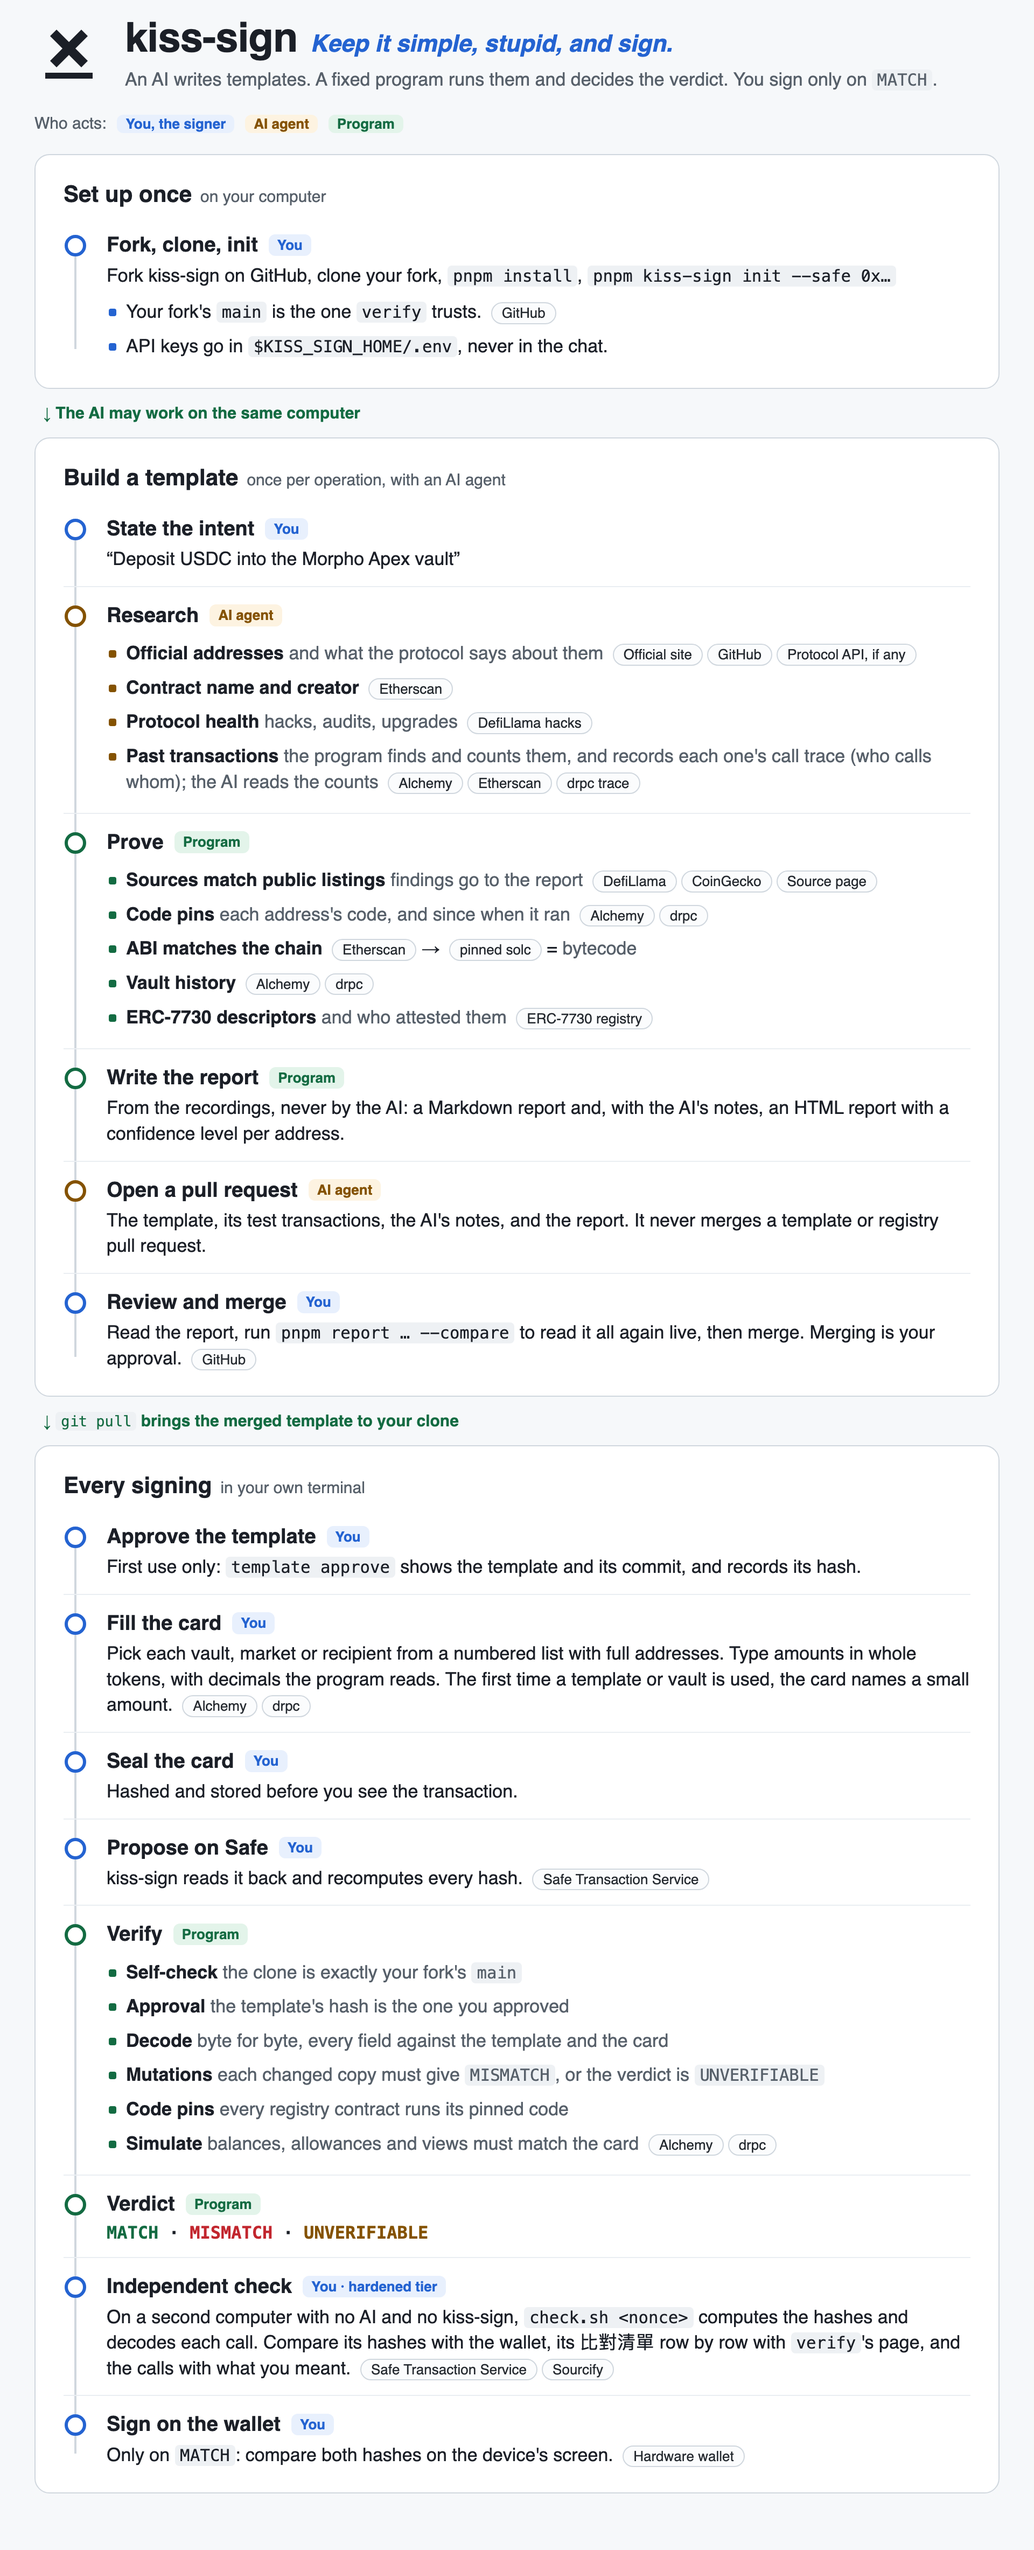
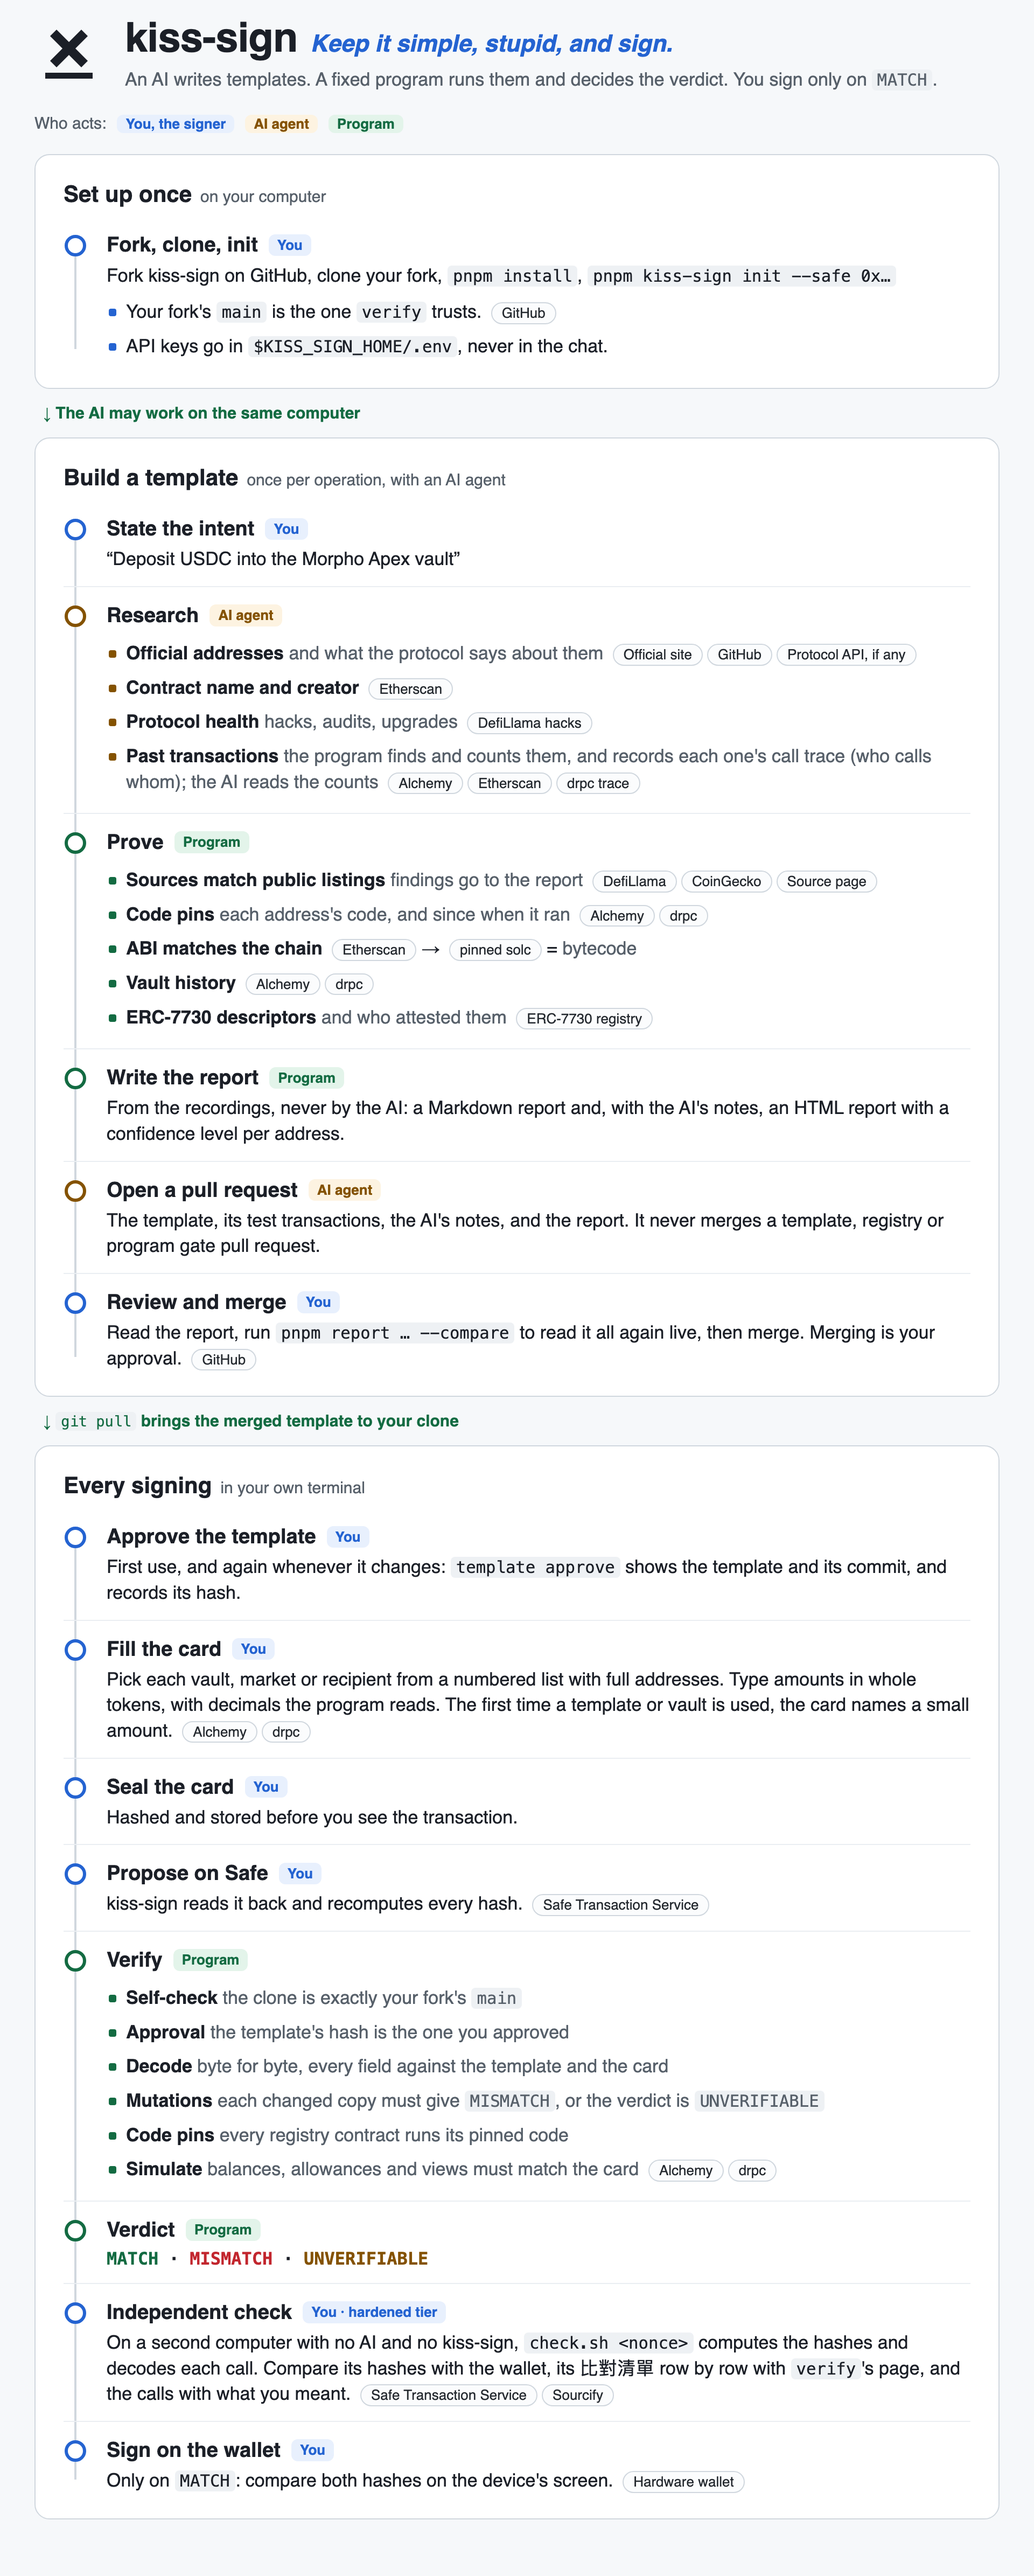
docs(diagrams): address the review of the diagram corrections
Say who never merges in full, approve again when a template changes, scope
the provider and basic-tier sentences, and read the floors with "except".

Claude-Session: https://claude.ai/code/session_019EpkRikTD1KbjKp9L1wtSS

diff --git a/docs/diagrams/detail.html b/docs/diagrams/detail.html
@@ -60,7 +60,7 @@
   <svg viewBox="0 0 256 256" aria-hidden="true"><g fill="#1b1f27"><path d="M57.98 58.02 L173.98 174.02 L198.02 149.98 L82.02 33.98 Z"/><path d="M173.98 33.98 L57.98 149.98 L82.02 174.02 L198.02 58.02 Z"/><rect x="40" y="194" width="176" height="22"/></g></svg>
   <div>
     <h1>kiss-sign<em>Keep it simple, stupid, and sign.</em></h1>
-    <p>Who acts at each step, what it checks, which services it reads, and what it trusts. The AI researches and writes templates; the program checks the research for you to judge, and alone decides the verdict at signing.</p>
+    <p>Who acts at each step, what it checks, which services it reads, and what it trusts. The AI researches and writes templates; the program checks the addresses, code and evidence for you to judge, and alone decides the verdict at signing.</p>
   </div>
 </header>
 <div class="legend">Who acts:
@@ -132,7 +132,7 @@
         <li><code>docs.json</code>: one official page per function</li>
         <li><code>notes.json</code>: the AI's text, labelled as AI research</li>
         <li>The report</li>
-        <li>Never merges a template or registry pull request</li>
+        <li>Never merges a template, registry or program gate pull request</li>
       </ul></div>
     <div class="arrow">→</div>
     <div class="box signer"><div class="head"><span>Signer</span><span>step 8</span></div>
@@ -163,7 +163,7 @@
         <li>Keys go in <code>$KISS_SIGN_HOME/.env</code>, never in the chat</li>
       </ul></div>
     <div class="arrow">→</div>
-    <div class="box signer"><div class="head"><span>Signer · first use</span><span>step 8</span></div>
+    <div class="box signer"><div class="head"><span>Signer · first use, and on change</span><span>step 8</span></div>
       <h3><i>10</i>Approve the template</h3>
       <ul>
         <li><code>template approve</code> fetches your fork's main</li>
@@ -202,13 +202,13 @@
       <ul>
         <li>The template's hash is the one you approved</li>
         <li>Decode, re-encode byte for byte</li>
-        <li>Floors: no <code>delegatecall</code> but MultiSend; no unlimited approval but a registry standing allowance; no Safe setting change but a declared owner or threshold change; zero fee fields</li>
+        <li>Floors: no <code>delegatecall</code> except to MultiSend; no unlimited approval except a registry standing allowance; no Safe setting change except a declared owner or threshold change; zero fee fields</li>
         <li>Every field against the template and the card</li>
         <li>Each vault's <code>asset()</code> is its registry token</li>
         <li>Every registry contract runs its pinned code</li>
         <li>Mutations: each changed copy must give <code>MISMATCH</code>, or the verdict is <code>UNVERIFIABLE</code></li>
       </ul>
-      <div class="chips"><span class="chip">Alchemy</span><span class="chip">drpc</span><span class="chip">Signed-message API, e.g. CoW, hashed</span></div></div>
+      <div class="chips"><span class="chip">Alchemy</span><span class="chip">drpc</span><span class="chip">Signed-message API, e.g. CoW: must hash to the digest</span></div></div>
     <div class="arrow">→</div>
     <div class="box program"><div class="head"><span>Program · verify</span><span>step 12</span></div>
       <h3><i>16</i>Simulate</h3>
@@ -244,9 +244,9 @@
 </section>
 
 <div class="trust">
-  <div><b>Two providers</b>Every chain read goes to two providers: Alchemy and drpc, or Alchemy Transfers and Etherscan to find past transactions. If they disagree, the verdict is <code>UNVERIFIABLE</code>. Only a past transaction's call trace, read in research, comes from drpc alone.</div>
+  <div><b>Two providers</b>Every chain read goes to Alchemy and drpc; if they disagree, the result is <code>UNVERIFIABLE</code>. Past transactions are found through Alchemy Transfers and Etherscan (an event search, Etherscan alone); their call traces come from drpc alone.</div>
   <div><b>Pinned downloads</b>solc, the Public Suffix List and the ERC-7730 archive load on first use, refused unless the sha256 is pinned. Signing reads none.</div>
-  <div><b>Doubt fails closed</b>An AI fooled during signing can at worst cause <code>MISMATCH</code> or <code>UNVERIFIABLE</code>, while the program is your <code>main</code>. A program rewritten on your computer, a template wrong when you merged it, or an AI-merged program change no canary catches is not caught.</div>
+  <div><b>Doubt fails closed</b>An AI fooled during signing can at worst cause <code>MISMATCH</code> or <code>UNVERIFIABLE</code>, while the program is your <code>main</code>. A program rewritten on your computer, a template wrong when you merged it, or an AI-merged program change no canary catches is not caught by kiss-sign's own checks; in the hardened tier the independent check still shows what is signed.</div>
 </div>
 <script>document.body.dataset.height = Math.ceil(document.documentElement.getBoundingClientRect().height);</script>
 </body>

diff --git a/docs/diagrams/overview.html b/docs/diagrams/overview.html
@@ -98,7 +98,7 @@
     <li class="step program"><div class="title">Write the report <span class="who">Program</span></div>
       <div class="desc">From the recordings, never by the AI: a Markdown report and, with the AI's notes, an HTML report with a confidence level per address.</div></li>
     <li class="step ai"><div class="title">Open a pull request <span class="who">AI agent</span></div>
-      <div class="desc">The template, its test transactions, the AI's notes, and the report. It never merges a template or registry pull request.</div></li>
+      <div class="desc">The template, its test transactions, the AI's notes, and the report. It never merges a template, registry or program gate pull request.</div></li>
     <li class="step signer"><div class="title">Review and merge <span class="who">You</span></div>
       <div class="desc">Read the report, run <code>pnpm report … --compare</code> to read it all again live, then merge. Merging is your approval. <span class="chip">GitHub</span></div></li>
   </ol>
@@ -110,7 +110,7 @@
   <h2>Every signing<small>in your own terminal</small></h2>
   <ol>
     <li class="step signer"><div class="title">Approve the template <span class="who">You</span></div>
-      <div class="desc">First use only: <code>template approve</code> shows the template and its commit, and records its hash.</div></li>
+      <div class="desc">First use, and again whenever it changes: <code>template approve</code> shows the template and its commit, and records its hash.</div></li>
     <li class="step signer"><div class="title">Fill the card <span class="who">You</span></div>
       <div class="desc">Pick each vault, market or recipient from a numbered list with full addresses. Type amounts in whole tokens, with decimals the program reads. The first time a template or vault is used, the card names a small amount. <span class="chip">Alchemy</span><span class="chip">drpc</span></div></li>
     <li class="step signer"><div class="title">Seal the card <span class="who">You</span></div>
